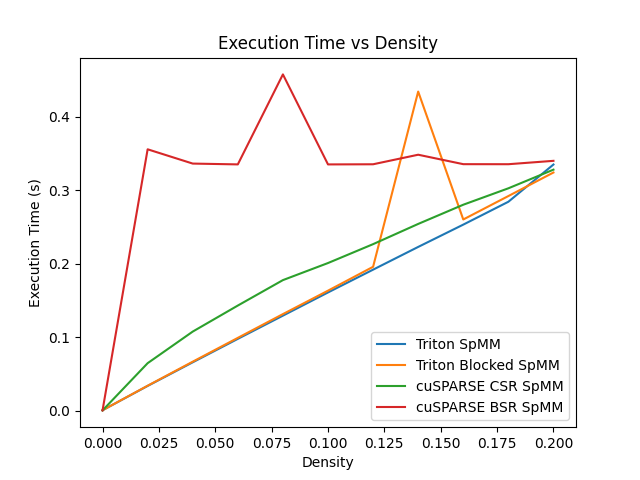
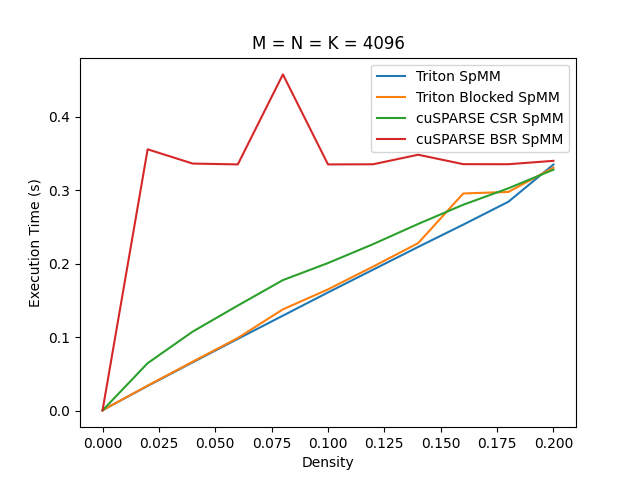
small tweaks to comment out unnecessary code

diff --git a/spMM_test.py b/spMM_test.py
@@ -81,22 +81,7 @@ def run_experiment(block_size, dim, density):
     # Run the benchmark
     benchmark_spmm(A, B, C)
     benchmark_spmm_block(A, B, C_block, block_size=128)
-    #benchmark_cuSPARSE(A, B, C) # benchmark for scipy's csr mm
-    try:
-        cusparse_bsr.benchmark_cusparseSpMMBSR(
-            ctypes.c_int(A.shape[0]),
-            ctypes.c_int(A.shape[1]),
-            ctypes.c_int(A.nnz),
-            ctypes.c_int(B.shape[1]),
-            ctypes.c_int(128),  # Block size
-            ctypes.c_void_p(A.indptr.ctypes.data),
-            ctypes.c_void_p(A.indices.ctypes.data),
-            ctypes.c_void_p(A.data.ctypes.data),
-            ctypes.c_void_p(B.ctypes.data),
-            ctypes.c_void_p(C.ctypes.data),
-        )
-    except Exception as e:
-        print(f"Error calling cuSPARSE_bsr function: {e}")
+    benchmark_cuSPARSE(A, B, C) # benchmark for scipy's csr mm
 
     try:
         cusparse_bsr.benchmark_cusparseSpMMCSR(
@@ -112,6 +97,22 @@ def run_experiment(block_size, dim, density):
         )
     except Exception as e:
         print(f"Error calling cuSPARSE_csr function: {e}")
+
+    try:
+        cusparse_bsr.benchmark_cusparseSpMMBSR(
+            ctypes.c_int(A.shape[0]),
+            ctypes.c_int(A.shape[1]),
+            ctypes.c_int(A.nnz),
+            ctypes.c_int(B.shape[1]),
+            ctypes.c_int(128),  # Block size
+            ctypes.c_void_p(A.indptr.ctypes.data),
+            ctypes.c_void_p(A.indices.ctypes.data),
+            ctypes.c_void_p(A.data.ctypes.data),
+            ctypes.c_void_p(B.ctypes.data),
+            ctypes.c_void_p(C.ctypes.data),
+        )
+    except Exception as e:
+        print(f"Error calling cuSPARSE_bsr function: {e}")
 
 def main():
 

diff --git a/run_experiments.py b/run_experiments.py
@@ -2,7 +2,7 @@ import os
 from data_utils.read_output import read_output
 import matplotlib.pyplot as plt
 
-dimensions = [2048, 4096, 8192]
+dimensions = [2048, 4096, 8192] # tweak this as you wish
 
 def gather_results():
     results = []
@@ -24,7 +24,7 @@ def plot_results(results):
         plt.plot(density_values, cusparse_bsr_times, label="cuSPARSE BSR SpMM")
         plt.xlabel("Density")
         plt.ylabel("Execution Time (s)")
-        plt.title("Execution Time vs Density")
+        plt.title(f"M = N = K = {dimensions[i]}")
         plt.legend()
         # save the plot as a png with file name density_vs_time_{dim}.png
         plt.savefig(f"density_vs_time_{dimensions[i]}.png")
@@ -32,21 +32,15 @@ def plot_results(results):
 def main():
     block_size = 32
 
-    for i in range(11):
-        density = i / 50
-        command = f"python3 spMM_test.py 16384 {density} {block_size} >> dim_16384_output.txt"
-        os.system(command)
-
-    """
     for dim in dimensions:
         # loop over values from 0.0 to 0.2 in steps of 0.02
         for i in range(11):
             density = i / 50
             command = f"python3 spMM_test.py {dim} {density} {block_size} >> dim_{dim}_output.txt"
             os.system(command)
-    """
-    #results = gather_results()
-    #plot_results(results)
+
+    results = gather_results()
+    plot_results(results)
 
 if __name__ == "__main__":
     main()
